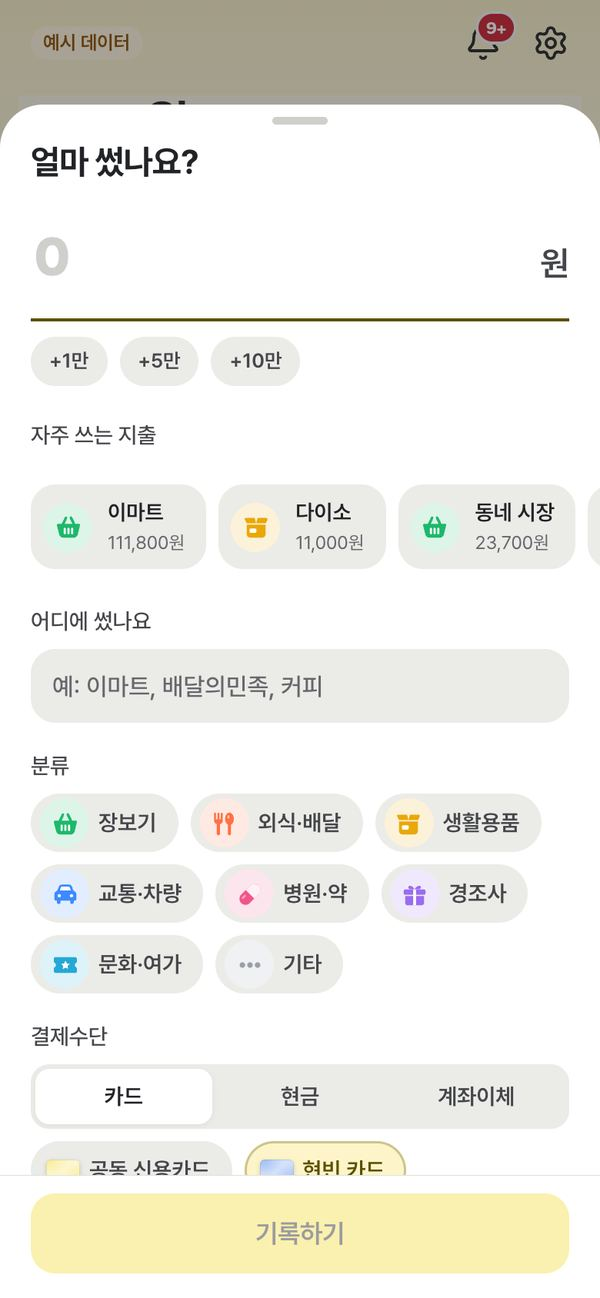
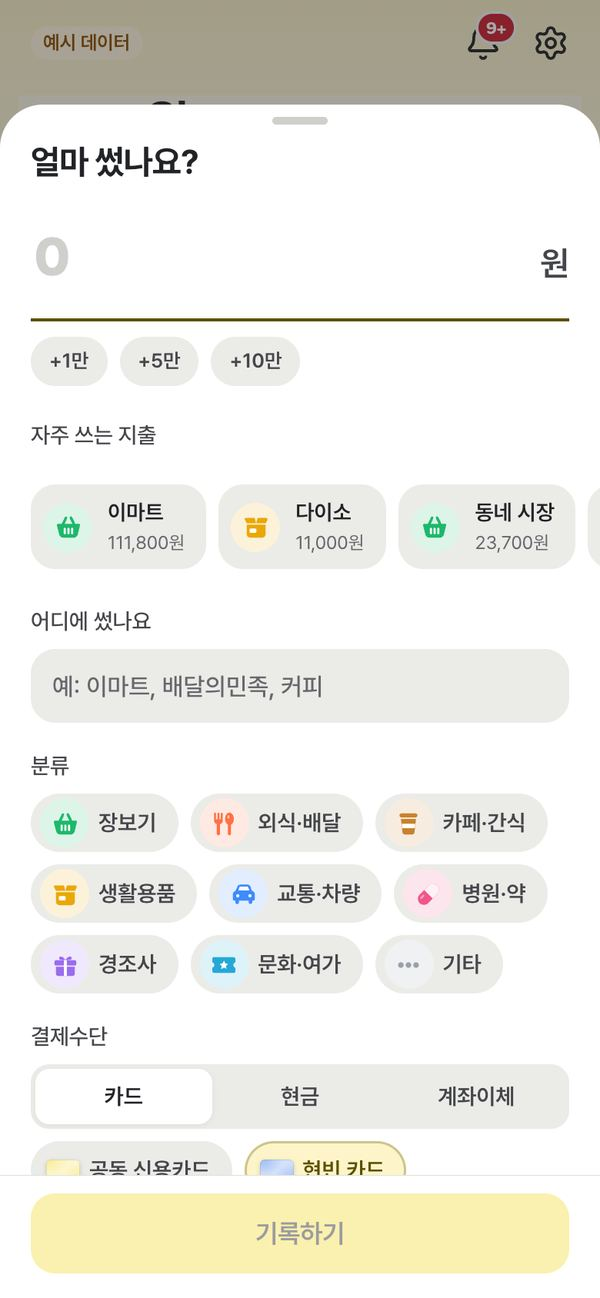
이번 달 기록 타일도 채운 그림으로, 기본 분류에 카페·간식 — 오르는 막대·불꽃·영수증·돼지 저금통
가계부 "이번 달 기록" 타일 네 개가 아직 lucide 외곽선이라 분류 아이콘과 따로 놀았다. 같은 CatGlyphs 묶음에
trend·flame·piggy 를 더하고(기록 수는 receipt), 분류 아이콘과 같은 옅게 푼 원(38px)에 둔다.
카페 컵 그림은 있었지만 기본 분류에 카페가 없어 쓸 일이 없었다. 새로 설치할 때의 기본 분류(schema.sql 시드,
기존 DB 는 그대로)와 예시 데이터에 카페·간식을 더한다(예시는 외식 예산 300,000 → 220,000 + 카페 80,000, 합계 그대로).

diff --git a/docs/design-system/components/StatTiles/preview.html b/docs/design-system/components/StatTiles/preview.html
@@ -6,12 +6,9 @@
   .label { max-width: 390px; margin: 0 0 10px; color: var(--faint); font: 500 14.5px/20px var(--font-text); }
   .grid { max-width: 390px; display: grid; grid-template-columns: 1fr 1fr; gap: 10px; }
   .tile { display: flex; align-items: center; gap: 12px; min-width: 0; padding: 14px; border-radius: var(--radius-inner); background: var(--surface); box-shadow: var(--shadow-card); }
-  .ic { flex: none; display: grid; place-items: center; width: 36px; height: 36px; border-radius: var(--radius-chip); }
-  .ic svg { width: 18px; height: 18px; fill: none; stroke: currentColor; stroke-width: 2; stroke-linecap: round; stroke-linejoin: round; }
-  .t1 { background: var(--pill-negative-bg); color: var(--pill-negative-ink); }
-  .t2 { background: var(--a-soft); color: var(--a-ink); }
-  .t3 { background: var(--accent-soft); color: var(--accent-ink); }
-  .t4 { background: var(--pill-positive-bg); color: var(--pill-positive-ink); }
+  .ic { flex: none; display: grid; place-items: center; width: 38px; height: 38px; border-radius: 50%; background: color-mix(in srgb, currentColor 15%, var(--surface)); }
+  .ic svg { width: 22px; height: 22px; } .ic .d { fill: var(--on-dark); }
+  .t1 { color: #f2554f; } .t2 { color: #ff8a3d; } .t3 { color: #e9a80a; } .t4 { color: #1db86b; }
   .tile div { min-width: 0; }
   .tile b { display: block; font: 700 18px/24px var(--font-display); letter-spacing: -0.01em; font-variant-numeric: tabular-nums; }
   .tile b span { margin-left: 1px; font-size: .72em; font-weight: 600; color: var(--faint); }
@@ -20,9 +17,18 @@
 <div class="stage">
   <p class="label">이번 달 기록</p>
   <div class="grid">
-    <div class="tile"><span class="ic t1"><svg viewBox="0 0 24 24" aria-hidden="true"><path d="M16 7h6v6"/><path d="m22 7-8.5 8.5-5-5L2 17"/></svg></span><div><b>182,000<span>원</span></b><small>가장 많이 쓴 날 · 11/2</small></div></div>
-    <div class="tile"><span class="ic t2"><svg viewBox="0 0 24 24" aria-hidden="true"><path d="M12 3q1 4 4 6.5t3 5.5a1 1 0 0 1-14 0 5 5 0 0 1 1-3 1 1 0 0 0 5 0c0-2-1.5-3-1.5-5q0-2 2.5-4"/></svg></span><div><b>4<span>일</span></b><small>무지출 연속</small></div></div>
-    <div class="tile"><span class="ic t3"><svg viewBox="0 0 24 24" aria-hidden="true"><path d="M13 16H8"/><path d="M14 8H8"/><path d="M16 12H8"/><path d="M4 3a1 1 0 0 1 1-1 1.3 1.3 0 0 1 .7.2l.933.6a1.3 1.3 0 0 0 1.4 0l.934-.6a1.3 1.3 0 0 1 1.4 0l.933.6a1.3 1.3 0 0 0 1.4 0l.933-.6a1.3 1.3 0 0 1 1.4 0l.934.6a1.3 1.3 0 0 0 1.4 0l.933-.6A1.3 1.3 0 0 1 19 2a1 1 0 0 1 1 1v18a1 1 0 0 1-1 1 1.3 1.3 0 0 1-.7-.2l-.933-.6a1.3 1.3 0 0 0-1.4 0l-.934.6a1.3 1.3 0 0 1-1.4 0l-.933-.6a1.3 1.3 0 0 0-1.4 0l-.933.6a1.3 1.3 0 0 1-1.4 0l-.934-.6a1.3 1.3 0 0 0-1.4 0l-.933.6a1.3 1.3 0 0 1-.7.2 1 1 0 0 1-1-1z"/></svg></span><div><b>86<span>건</span></b><small>이번 달 기록</small></div></div>
-    <div class="tile"><span class="ic t4"><svg viewBox="0 0 24 24" aria-hidden="true"><path d="M11 17h3v2a1 1 0 0 0 1 1h2a1 1 0 0 0 1-1v-3a3.16 3.16 0 0 0 2-2h1a1 1 0 0 0 1-1v-2a1 1 0 0 0-1-1h-1a5 5 0 0 0-2-4V3a4 4 0 0 0-3.2 1.6l-.3.4H11a6 6 0 0 0-6 6v1a5 5 0 0 0 2 4v3a1 1 0 0 0 1 1h2a1 1 0 0 0 1-1z"/><path d="M16 10h.01"/><path d="M2 8v1a2 2 0 0 0 2 2h1"/></svg></span><div><b>1,000,000<span>원</span></b><small>이번 달 저축</small></div></div>
+    <div class="tile"><span class="ic t1"><svg viewBox="0 0 24 24" fill="currentColor" aria-hidden="true"><rect x="3" y="13" width="4.6" height="8" rx="1.6" opacity=".45" />
+      <rect x="9.7" y="8.6" width="4.6" height="12.4" rx="1.6" opacity=".7" />
+      <rect x="16.4" y="3.6" width="4.6" height="17.4" rx="1.6" />
+      <rect class="d" x="17.5" y="6" width="2.4" height="1.4" rx=".7" opacity=".7" /></svg></span><div><b>182,000<span>원</span></b><small>가장 많이 쓴 날 · 11/2</small></div></div>
+    <div class="tile"><span class="ic t2"><svg viewBox="0 0 24 24" fill="currentColor" aria-hidden="true"><path d="M12.6 2.2c.4 3 3.1 4.6 4.9 7.1A7.6 7.6 0 0 1 19 13.8 7 7 0 0 1 5 13.8c0-2.4 1-4.3 2.6-5.8.3 1.6 1.1 2.7 2.3 3.2-.6-3.6.6-6.9 2.7-9z" />
+      <path class="d" d="M12 21a3.3 3.3 0 0 1-3.3-3.3c0-1.7 1.2-2.7 2.3-3.9.2 1 .8 1.6 1.5 1.8.1-1.3.6-2.3 1.4-3 .3 1.6 1.4 2.5 1.4 4.6A3.3 3.3 0 0 1 12 21z" /></svg></span><div><b>4<span>일</span></b><small>무지출 연속</small></div></div>
+    <div class="tile"><span class="ic t3"><svg viewBox="0 0 24 24" fill="currentColor" aria-hidden="true"><path d="M6 3h12a1.2 1.2 0 0 1 1.2 1.2v16.4l-2.4-1.3-2.4 1.3-2.4-1.3-2.4 1.3-2.4-1.3-2.4 1.3V4.2A1.2 1.2 0 0 1 6 3z" />
+      <rect class="d" x="8.3" y="7.4" width="7.4" height="1.7" rx=".85" />
+      <rect class="d" x="8.3" y="11" width="4.8" height="1.7" rx=".85" /></svg></span><div><b>86<span>건</span></b><small>이번 달 기록</small></div></div>
+    <div class="tile"><span class="ic t4"><svg viewBox="0 0 24 24" fill="currentColor" aria-hidden="true"><path d="M10.6 5.2h3.2a7.2 7.2 0 0 1 5.5 2.6l1.3-.4a.8.8 0 0 1 1 .9l-.3 2.3c.4.7.6 1.4.7 2.2h.3a.8.8 0 0 1 .8.8v1.8a.8.8 0 0 1-.8.8h-.9a7 7 0 0 1-2.4 2.6v1.8a1.4 1.4 0 0 1-1.4 1.4h-1.3a1.4 1.4 0 0 1-1.4-1.3l-.1-.6h-3.2l-.1.6a1.4 1.4 0 0 1-1.4 1.3H7.8a1.4 1.4 0 0 1-1.4-1.4v-2.2A7 7 0 0 1 3.4 12.3c0-3.9 3.2-7.1 7.2-7.1z" />
+      <rect class="d" x="9.4" y="7.4" width="4.6" height="1.6" rx=".8" />
+      <circle class="d" cx="17.6" cy="11" r=".95" />
+      <circle cx="11.7" cy="2.6" r="2" /></svg></span><div><b>1,000,000<span>원</span></b><small>이번 달 저축</small></div></div>
   </div>
 </div>

diff --git a/apps/web/src/components/CatGlyphs.tsx b/apps/web/src/components/CatGlyphs.tsx
@@ -4,9 +4,12 @@
 
 import type { CatIcon } from "@/lib/categories";
 
+/** 분류 그림 + 가계부 "이번 달 기록" 타일 그림 */
+export type GlyphName = CatIcon | "trend" | "flame" | "piggy";
+
 type Glyph = () => React.ReactElement;
 
-const G: Record<CatIcon, Glyph> = {
+const G: Record<GlyphName, Glyph> = {
   // 장보기 — 손잡이 달린 바구니, 흰 살
   basket: () => (
     <>
@@ -134,9 +137,34 @@ const G: Record<CatIcon, Glyph> = {
       <rect className="d" x="8.3" y="11" width="4.8" height="1.7" rx=".85" />
     </>
   ),
+  // 이번 달 기록 — 가장 많이 쓴 날: 오르는 막대 셋, 가장 높은 막대만 진하게
+  trend: () => (
+    <>
+      <rect x="3" y="13" width="4.6" height="8" rx="1.6" opacity=".45" />
+      <rect x="9.7" y="8.6" width="4.6" height="12.4" rx="1.6" opacity=".7" />
+      <rect x="16.4" y="3.6" width="4.6" height="17.4" rx="1.6" />
+      <rect className="d" x="17.5" y="6" width="2.4" height="1.4" rx=".7" opacity=".7" />
+    </>
+  ),
+  // 무지출 연속: 불꽃, 흰 속불
+  flame: () => (
+    <>
+      <path d="M12.6 2.2c.4 3 3.1 4.6 4.9 7.1A7.6 7.6 0 0 1 19 13.8 7 7 0 0 1 5 13.8c0-2.4 1-4.3 2.6-5.8.3 1.6 1.1 2.7 2.3 3.2-.6-3.6.6-6.9 2.7-9z" />
+      <path className="d" d="M12 21a3.3 3.3 0 0 1-3.3-3.3c0-1.7 1.2-2.7 2.3-3.9.2 1 .8 1.6 1.5 1.8.1-1.3.6-2.3 1.4-3 .3 1.6 1.4 2.5 1.4 4.6A3.3 3.3 0 0 1 12 21z" />
+    </>
+  ),
+  // 이번 달 저축: 동전이 들어가는 돼지 저금통, 흰 구멍과 눈
+  piggy: () => (
+    <>
+      <path d="M10.6 5.2h3.2a7.2 7.2 0 0 1 5.5 2.6l1.3-.4a.8.8 0 0 1 1 .9l-.3 2.3c.4.7.6 1.4.7 2.2h.3a.8.8 0 0 1 .8.8v1.8a.8.8 0 0 1-.8.8h-.9a7 7 0 0 1-2.4 2.6v1.8a1.4 1.4 0 0 1-1.4 1.4h-1.3a1.4 1.4 0 0 1-1.4-1.3l-.1-.6h-3.2l-.1.6a1.4 1.4 0 0 1-1.4 1.3H7.8a1.4 1.4 0 0 1-1.4-1.4v-2.2A7 7 0 0 1 3.4 12.3c0-3.9 3.2-7.1 7.2-7.1z" />
+      <rect className="d" x="9.4" y="7.4" width="4.6" height="1.6" rx=".8" />
+      <circle className="d" cx="17.6" cy="11" r=".95" />
+      <circle cx="11.7" cy="2.6" r="2" />
+    </>
+  ),
 };
 
-export function CatGlyph({ icon }: { icon: CatIcon }) {
+export function CatGlyph({ icon }: { icon: GlyphName }) {
   const Glyph = G[icon];
   return (
     <svg viewBox="0 0 24 24" fill="currentColor" aria-hidden="true">

diff --git a/apps/web/src/components/StatTiles.tsx b/apps/web/src/components/StatTiles.tsx
@@ -1,6 +1,6 @@
 "use client";
 
-import { Flame, PiggyBank, ReceiptText, TrendingUp } from "lucide-react";
+import { CatGlyph, type GlyphName } from "./CatGlyphs";
 import { num, parseYmd, short, shortDate, ymd } from "@/lib/format";
 
 /**
@@ -23,17 +23,18 @@ export function StatTiles({ rows, period, today, saving }: { rows: { date: strin
   // 타일 폭(폰에서 약 110px)에 맞게 백만 원부터는 "200만"처럼 줄인다
   const won = (n: number) => (n >= 1_000_000 ? short(n) : num(n));
   const tiles = [
-    { icon: <TrendingUp />, tone: "t1", value: peak ? won(peak[1]) : "–", unit: peak ? "원" : "", text: peak ? `가장 많이 쓴 날 · ${shortDate(peak[0])}` : "가장 많이 쓴 날" },
-    { icon: <Flame />, tone: "t2", value: String(streak), unit: "일", text: "무지출 연속" },
-    { icon: <ReceiptText />, tone: "t3", value: num(rows.length), unit: "건", text: "이번 달 기록" },
-    { icon: <PiggyBank />, tone: "t4", value: won(saving), unit: "원", text: "이번 달 저축" },
+    { icon: "trend" as GlyphName, ink: "#f2554f", value: peak ? won(peak[1]) : "–", unit: peak ? "원" : "", text: peak ? `가장 많이 쓴 날 · ${shortDate(peak[0])}` : "가장 많이 쓴 날" },
+    { icon: "flame" as GlyphName, ink: "#ff8a3d", value: String(streak), unit: "일", text: "무지출 연속" },
+    { icon: "receipt" as GlyphName, ink: "#e9a80a", value: num(rows.length), unit: "건", text: "이번 달 기록" },
+    { icon: "piggy" as GlyphName, ink: "#1db86b", value: won(saving), unit: "원", text: "이번 달 저축" },
   ];
   return (
     <ul className="stat-tiles">
       {tiles.map((t) => (
         <li key={t.text} className="stat">
-          <span className={`ic ${t.tone}`} aria-hidden="true">
-            {t.icon}
+          {/* 분류 아이콘과 같은 채운 두 톤 그림, 그 색을 옅게 푼 원 (docs/design-system/components/CategoryIcon) */}
+          <span className="cat ic" style={{ color: t.ink }} aria-hidden="true">
+            <CatGlyph icon={t.icon} />
           </span>
           <div>
             <b>

diff --git a/apps/web/src/app/cards.css b/apps/web/src/app/cards.css
@@ -182,12 +182,8 @@
 
 .stat-tiles { display: grid; grid-template-columns: repeat(2, minmax(0, 1fr)); gap: 10px; margin: 0; padding: 0; list-style: none; }
 .stat-tiles .stat { display: flex; align-items: center; gap: 12px; min-width: 0; padding: 14px; border-radius: var(--radius-inner); background: var(--surface-card); box-shadow: var(--shadow-card); }
-.stat-tiles .ic { flex: none; display: grid; place-items: center; width: 36px; height: 36px; border-radius: var(--radius-chip); }
-.stat-tiles .ic svg { width: 18px; height: 18px; stroke-width: 2; }
-.stat-tiles .t1 { background: var(--pill-negative-bg); color: var(--pill-negative-ink); }
-.stat-tiles .t2 { background: var(--a-soft); color: var(--a-ink); }
-.stat-tiles .t3 { background: var(--accent-soft); color: var(--accent-ink); }
-.stat-tiles .t4 { background: var(--pill-positive-bg); color: var(--pill-positive-ink); }
+.stat-tiles .ic { width: 38px; height: 38px; }
+.stat-tiles .ic svg { width: 22px; height: 22px; }
 .stat-tiles .stat div { min-width: 0; }
 .stat-tiles b { display: block; overflow: hidden; font: 700 18px/24px var(--font-display); letter-spacing: -0.01em; font-variant-numeric: tabular-nums; text-overflow: ellipsis; white-space: nowrap; }
 .stat-tiles b span { margin-left: 1px; color: var(--faint); font-size: 0.72em; font-weight: 600; }

diff --git a/apps/web/src/lib/demo-data.ts b/apps/web/src/lib/demo-data.ts
@@ -80,7 +80,8 @@ const plan: PlanItem[] = [
 
 const categories: Category[] = [
   ["cat-grocery", "장보기", 500_000],
-  ["cat-eatout", "외식·배달", 300_000],
+  ["cat-eatout", "외식·배달", 220_000],
+  ["cat-cafe", "카페·간식", 80_000],
   ["cat-home", "생활용품", 150_000],
   ["cat-car", "교통·차량", 150_000],
   ["cat-health", "병원·약", 50_000],

diff --git a/docs/design-system/components/CategoryIcon/README.md b/docs/design-system/components/CategoryIcon/README.md
@@ -4,7 +4,8 @@
 
 - **그림:** 외곽선이 아니라 **채운 실루엣 하나 + 흰 디테일**입니다(24×24, 실루엣은 `currentColor` = 분류 색, 디테일은 `on-dark`). 바구니의 살, 컵의 슬리브, 자동차 유리창, 티켓의 별처럼 디테일은 한두 개만 둡니다. 얇은 선·그림자·그라데이션은 쓰지 않습니다.
 - **원:** 40px(작게 32px), 완전한 원(`50%`). 바탕은 분류 색을 `cat-tint`만큼 `cat-base`에 섞습니다 — 라이트는 흰 원에 15%(옅은 파스텔), 다크는 `well`에 8%(거의 무채색이라 아이콘 색이 뜸). 그림은 24px(작게 19px).
-- **분류와 그림:** 장보기 바구니 · 외식·배달 포크와 숟가락 · 카페·간식 테이크아웃 컵 · 생활용품 택배 상자 · 교통·차량 자동차 · 병원·약 캡슐 · 경조사·선물 선물 상자 · 문화·여가 티켓 · 주거·관리비 집 · 육아 젖병 · 반려동물 발바닥 · 기타 점 셋 · 그 밖의 이름 꼬리표 · 분류 없음 영수증 · 개인 용돈 지갑(사람 색 `a`/`b`).
+- **분류와 그림:** 장보기 바구니 · 외식·배달 포크와 숟가락 · 카페·간식(기본 분류) 테이크아웃 컵 · 생활용품 택배 상자 · 교통·차량 자동차 · 병원·약 캡슐 · 경조사·선물 선물 상자 · 문화·여가 티켓 · 주거·관리비 집 · 육아 젖병 · 반려동물 발바닥 · 기타 점 셋 · 그 밖의 이름 꼬리표 · 분류 없음 영수증 · 개인 용돈 지갑(사람 색 `a`/`b`).
 - **색:** 분류마다 한 가지 중간 밝기 색(`lib/categories.ts`)을 두 테마에서 같이 씁니다. 아이콘 옆에는 늘 분류 이름이 있어서 색만으로 뜻을 전하지 않습니다.
 - **꽉 채운 원:** `bg`를 주면 그 색으로 원을 꽉 채웁니다(지갑 카드 상세의 버킷 색 원). 이때 그림 색은 `ink`로 정합니다.
+- 가계부 "이번 달 기록" 타일도 같은 그림 묶음을 씁니다(`trend` · `flame` · `receipt` · `piggy`, [StatTiles](../StatTiles/README.md)).
 - 새 분류 그림을 더할 때는 같은 굵기(실루엣이 원의 60% 안팎)와 흰 디테일 한두 개를 지키고, 32px에서도 읽히는지 봅니다.

diff --git a/docs/design-system/README.md b/docs/design-system/README.md
@@ -188,7 +188,7 @@
 - **탭:** 홈 `House`, 플랜 `Layers`, 체크 `ListChecks`, 가계부 `ReceiptText`이고, 기록은 `Plus`입니다.
 - **지갑:** 추가 `Plus`, 찾기 `Search`, 더 보기 `Ellipsis`, 닫기 `X`, 고치기 `Pencil`, 거르기 `SlidersHorizontal`, 옮긴 돈 `ArrowLeftRight`입니다.
 - **메타 줄:** 진행은 `Target`, 기한은 `Clock`, 이동은 `ChevronRight`입니다.
-- **기록 타일:** `TrendingUp`, `Flame`, `ReceiptText`, `PiggyBank`입니다.
+- **기록 타일:** 분류 아이콘과 같은 채운 두 톤 그림(오르는 막대 · 불꽃 · 영수증 · 돼지 저금통)입니다.
 - **속도 알약:** 덜 씀은 `TrendingDown`, 더 씀은 `TrendingUp`, 예산 초과는 `CircleAlert`입니다(16px).
 - **로그인 버튼:** `LogIn`(20px)입니다.
 - **분류 아이콘은 예외입니다.** 지출 줄·분류별 예산·분류 칩의 앞 동그라미는 외곽선이 아니라 직접 그린 **채운 두 톤 그림**(분류 색 실루엣 + 흰 디테일)입니다. 작은 원 안에서 얇은 선은 흐리고 찌그러져 보여서입니다. 규칙은 [CategoryIcon](components/CategoryIcon/README.md).

diff --git a/docs/design-system/components/StatTiles/README.md b/docs/design-system/components/StatTiles/README.md
@@ -9,7 +9,7 @@
 ## 구성
 - **섹션 이름표:** 묶음 위에 `small`·`faint`로 "이번 달 기록"을 둡니다.
 - **타일:** `surface`, `radius-inner`, `shadow-card`, 안쪽 14px입니다.
-- **아이콘:** 36px 동그라미에 lucide 18px입니다. 바탕은 상태 알약 색(`pill-*-bg`/`-ink`)이나 사람·공동 색(`a-soft`, `accent-soft`)만 씁니다.
+- **아이콘:** 분류 아이콘과 같은 채운 두 톤 그림([CategoryIcon](../CategoryIcon/README.md))을 38px 원에 22px로 둡니다 — 가장 많이 쓴 날 오르는 막대(빨강), 무지출 연속 불꽃(주황), 기록 수 영수증(금색), 저축 돼지 저금통(초록). 원은 그 색을 옅게 푼 것입니다(`cat-base`·`cat-tint`).
 - **숫자:** `display` 18px/700, 단위는 0.72em `faint`입니다. 아래 설명은 `meta`·`faint`입니다. 폰에서 타일이 좁으니 금액은 백만 원부터 "200만원"처럼 줄입니다.
 
 ## 쓰는 쪽이 줄 것

diff --git a/CHANGELOG.md b/CHANGELOG.md
@@ -7,6 +7,7 @@
 
 ## 다음 버전
 
+- 가계부 "이번 달 기록" 타일 아이콘(가장 많이 쓴 날 · 무지출 연속 · 기록 수 · 저축)도 같은 채운 그림으로 바꿨어요. 새로 설치하면 기본 분류에 **카페·간식**(컵 아이콘)이 있어요 — 이미 쓰는 가계부는 설정 › 생활비 분류와 예산에서 "카페"로 분류를 더하면 컵 아이콘이 붙고, 커피·스타벅스 같은 메모가 그 분류로 들어가요.
 - 분류 아이콘을 새로 그렸어요. 얇은 선 아이콘 대신 굵게 채운 그림에 흰 디테일(바구니 살, 컵 슬리브, 자동차 유리창…)을 얹어 작은 원 안에서도 또렷해요. 원은 밝은 화면에서 분류 색을 옅게 푼 파스텔, 어두운 화면에서 거의 무채색이라 아이콘 색이 떠요. 반려동물은 발바닥, 생활용품은 택배 상자예요.
 - **DB 이전:** 없음
 
